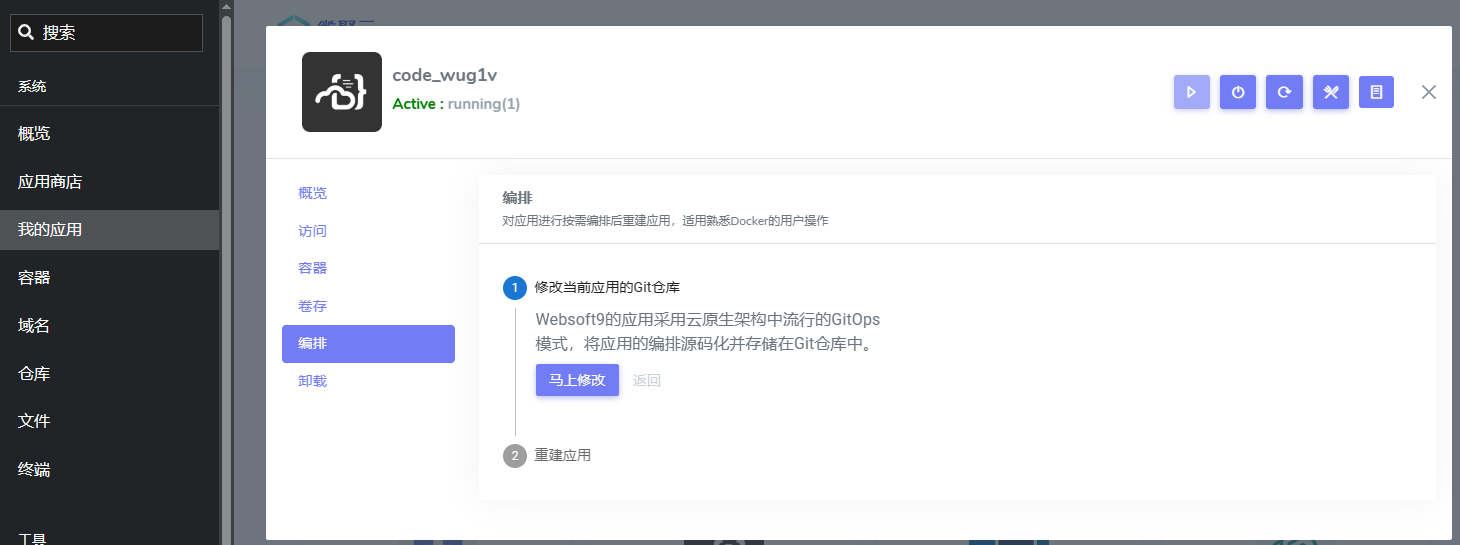
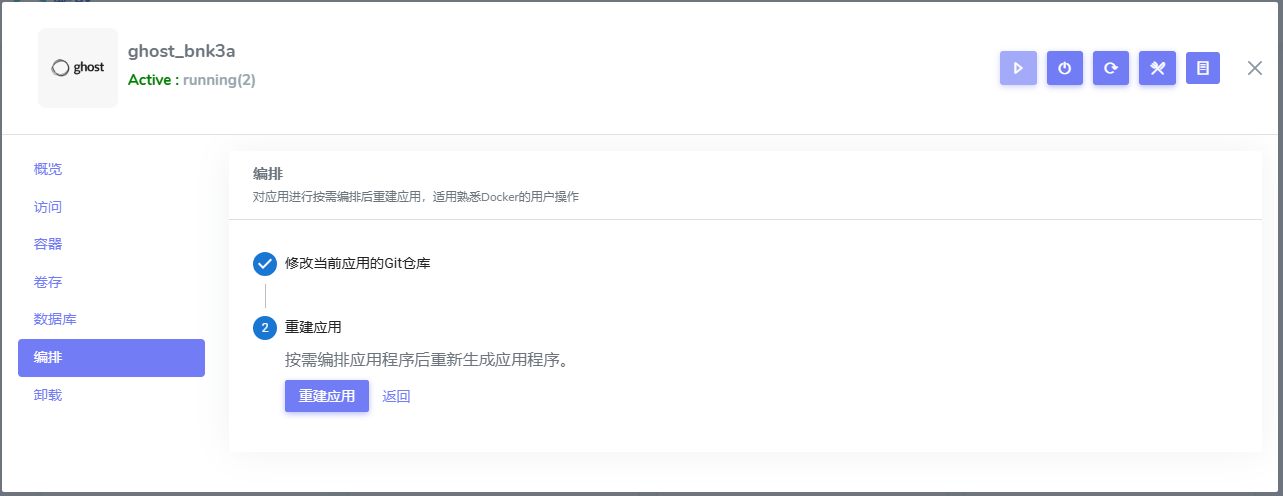
server

diff --git a/docs/guide/manage/compose.md b/docs/guide/manage/compose.md
@@ -3,94 +3,87 @@ sidebar_position: 1.3
 slug: /app-compose
 ---
 
-# 应用编排与自主配置
+# 应用编排与个性化配置
 
-对于重建来说，不管应用中的容器存在或被删除，都可以被重建，最大程度上保持重建工作的灵活性。 
+尽管基于 Websoft9 应用商店的部署模板能够快速启动应用，但这些模板并不总能预先满足所有用户的个性化需求。  
 
-编排即重新配置应用，它的编排的对象是一个 100% 的 Docker Compose 项目，所有熟悉 Docker 的用户编排它是轻车熟路的。  
+Websoft9 托管平台允许用户在应用启动后，使用**编排工具**对应用结构进行动态调整，并支持应用配置的深度个性化定制。    
 
-## 为什么要编排？
+## 原理
 
-Websoft9 提供的是应用模板，它满足了最快启动应用的一切，但它无法满足您各种个性化问题：
+应用编排是重新配置应用的过程，其操作对象为存储在 Git 仓库中的原生 [docker compose](https://docs.docker.com/compose/) 项目。
 
-- 需要使用自定义的数据库：例如云 RDS
-- 个性化的用户名和密码
-- 为某些应用配置缓存
-- 更改持久化存储目录
-- 应用自身的配置
-- 可设置的白名单
-- 需删除应用的容器后再创建
-- ...
+实现个性化配置仅需以下两个步骤：
 
-所以，我们需要将应用的编排完全开放个用户，以满足各种个性化需求。  
+1. 修改[ Docker Compose 项目文件](./plan-git#modify) 中的编排对象
+
+   - src 目录：存放的是应用的配置文件，可能会挂载到容器
+   - .env：应用的环境变量文件
+   - docker-compose.yml：应用的编排文件
+
+2. [重建应用](./app-lifecycle#rebuild)
 
 
-## 怎样编排？{#howto-reup}
+## 动态编排应用{#dynamic}
 
-Websoft9 运行机制是 GitOps 驱动，即先在 Git 中定义应用所需的资源，再将资源文件推送到 Runner 中运行。  
+动态应用编排指的是在应用正常运行的状态下进行的实时调整过程。该过程包括以下步骤：
 
-所有，我们的编排工作步骤如下：
-
-1. Websoft9 控制台，通过 **我的应用** 菜单进入任何一个应用的管理界面
+1. Websoft9 控制台，通过 "我的应用" 菜单进入目标应用的管理界面的 "编排" 标签页
    ![](./assets/websoft9-composeedit.png)
 
-2. 点击 “编排” 标签页的【马上修改】按钮，系统跳转到 **Git 仓库**的项目管理页面
+2. 点击 "马上修改"，系统跳转到应用对应的 **Git 仓库** 页面
+   ![](./assets/websoft9-composeedit-repo.png)
 
-2. 在可视化的仓库管理页面，选择 .env 或 docker-compose.yml 进行修改（所有文件均可修改）
-   ![](./assets/websoft9-composeedit.png)
+3. 调整目标配置文件（通常是修改 `.env` 文件）并保存更改
 
-3. 回到我的应用的**编排**标签页，点击【重建应用】链接或右上角的重建图标
+   > 请勿修改命名以 **W9_** 开头的环境变量，除非熟悉 Websoft9 的[模板编排规则](https://github.com/Websoft9/docker-library/blob/main/docs/code_owner.md)
 
-4. 等待重建完成
+4. 重新应用管理的 "编排" 标签页，点击 "重建应用" 按钮或右上角的重建图标
 
+5. [重建应用](./app-lifecycle#rebuild)后生效
 
-> W9_ 开头的环境变量一般不要去修改。
+## 全新编排应用{#reset}
 
+全新编排应用相对于[动态编排](#dynamic)来说，它需要删除应用的容器以及数据卷，确保应用启动后处于初始的出厂设置。  
 
-## 场景
+1. 登录 Websoft9 控制台的容器管理界面
 
-下面再以一些特殊的场景为例，让您更灵活管理应用。  
+2. 容器管理界面中通过 "Stack" 删除目标应用下的所有容器
 
-### 删除指定容器后再重建
+3. 容器管理界面中通过 "Volumes" 删除目标应用遗留的数据卷
 
-Websoft9 的**我的应用**标签页并不支持删除指定容器后再重建，但可以通过其他功能结合使用：
-
-1. 进入左侧主菜单的：【容器】>【Stacks】
-
-2. 进入 Stack 后找到应用，删除目标容器
-
-3. 可选操作：在容器管理界面中的【Volumes】页面，删除目标容器的 Volume
-
-4. 回到我的应用界面，重建容器
-
-### 开启数据库外网端口
-
-提供两种方式开放数据库的外网端口：
-
-- 方式一：需要重新编排应用的 *docker-compose.yml* 文件，修改其中数据库的 port 绑定，然后重建应用
-
-- 方式二：通过 Websoft9 域名管理界面中，新建一个 Stream 代理，实现端口转发到服务器
+4. 重建应用或参考[动态编排](#dynamic)进行个性化编排后再重建
 
 
+## 自定义应用的配置项{#configs}
 
-## 常见问题
+为了满足用户设置应用的配置文件和配置项，Websoft9 托管平台提供了灵活的自定义配置选项：
 
+- **环境变量自定义**：用户可以通过编辑 `.env` 文件来设置环境变量，这种方式简单快捷，适用于快速配置应用的运行参数。
 
+- **修改配置文件**：将自定义的配置文件提前挂载到容器中，用户只需要修改配置文件内容即可
 
-#### 环境变量修改后为什么有些不生效？
+请根据应用提供的模板和官方文档进行相关配置的个性化设置。
 
-有些环境变量仅用于容器的首次创建，后续修改是不生效的。例如：MYSQL_PASSWORD  
+## 参考文档
 
-这是由各个容器镜像的作者决定的，Websoft9 无法对它进行控制，也没有必要改变它的这种特征。    
+- [docker compose 官方文档](https://docs.docker.com/compose/)
+- [Websoft9 应用商店模板规范](https://github.com/Websoft9/docker-library)
 
-#### 编排如何影响网关的？
+## 问题与故障
 
-技术实现层面，当用户通过 Websoft9 应用商店安装的应用时，平台核心组件调研网关 API ，为应用创建一个转发的配置。  
+#### 修改环境变量后不生效？
 
-**网关是如何与 Websoft9 应用商店进行协作的？**     
+此情况是正常的。有些环境变量仅用于容器的首次创建，后续修改是不生效的。例如 MySQL 镜像的环境变量 `MYSQL_PASSWORD`。  
 
-当用户，应用管理器会调用网关的 API 接口，基于接口自动创建域名绑定到容器端口，帮助程序实现 **域名** 访问。 依次类推，修改域名、删除应用等操作，都会调用网关的 API 接口，完成所需的操作。 
+这种情况是由容器镜像的作者在设计时的考量，并不是故障。    
 
-网关需具备一定的 HTTP 服务应用经验的用户使用，否则很容易破坏已安装应用的访问。 
+#### 编排文件改错了？
+
+基于 Git 仓库的编排文件，可以很方便进行[还原](./plan-git#modify)操作
+
+#### 重建应用时拉取镜像失败？
+
+可以再次重试或提前在服务器上拉取相关镜像
 
 

diff --git a/docs/guide/infrastructure/server/addserver.md b/docs/guide/infrastructure/server/addserver.md
@@ -4,3 +4,7 @@ slug: /server-add
 ---
 
 # 增加服务器
+
+Websoft9 控制台通过 SSH 连接，接入更多的服务器，以保证应用安装到指定的服务器上。 
+
+> 此功能目前测试中，未发布
